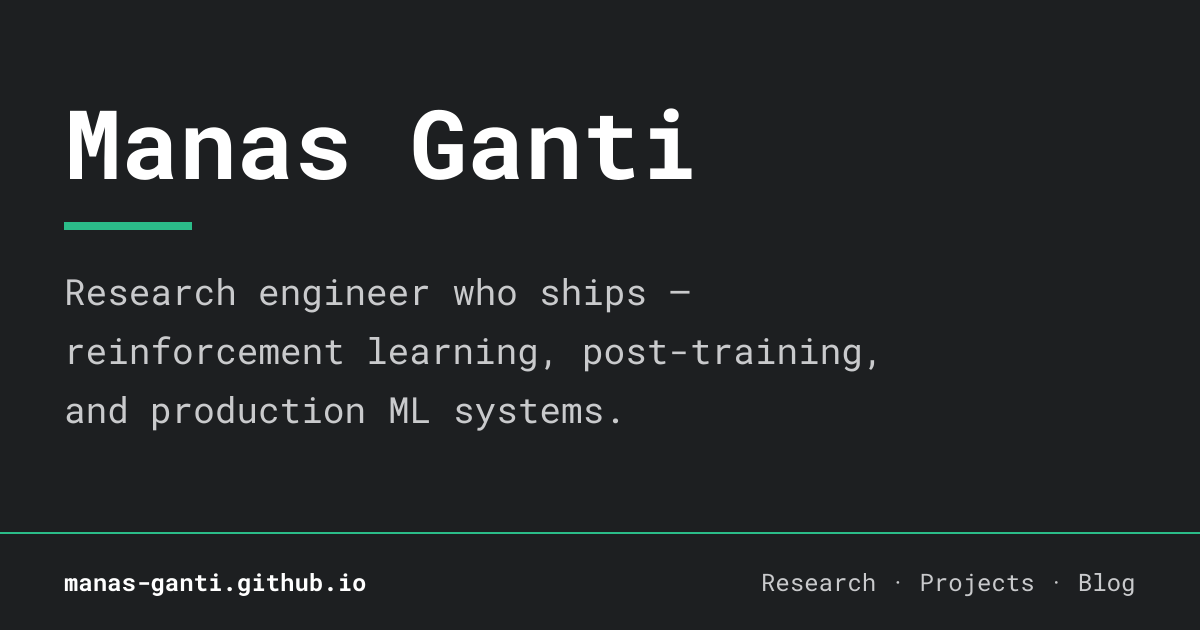
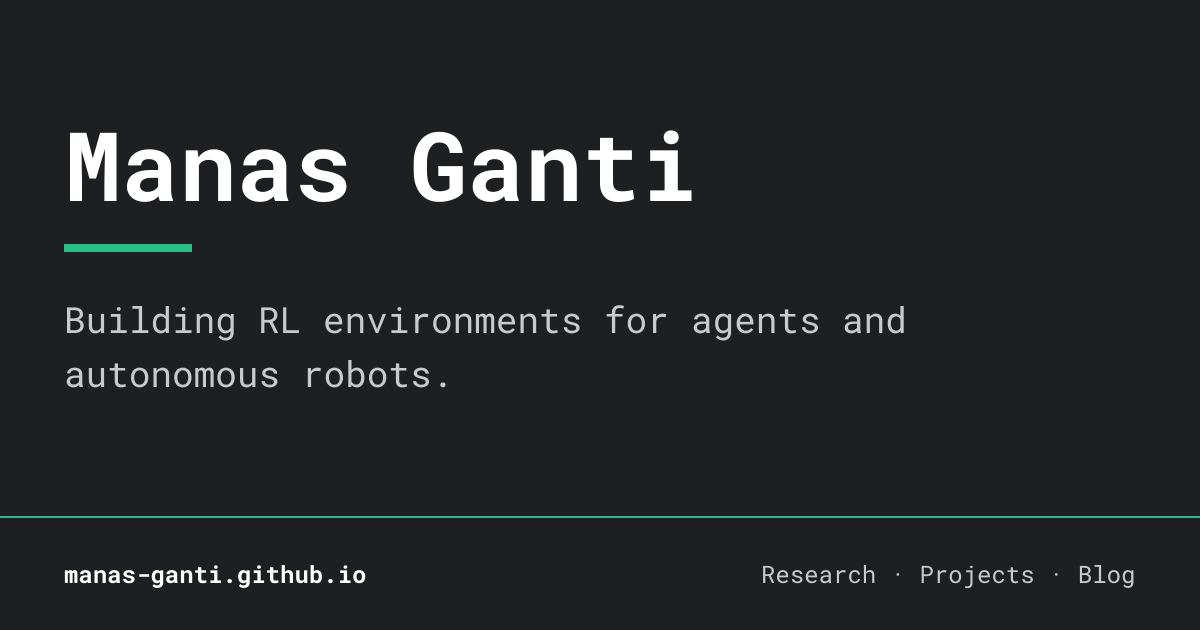
Link preview: new tagline in site description and share card

diff --git a/src/site.config.ts b/src/site.config.ts
@@ -9,7 +9,7 @@ export const siteConfig: SiteConfig = {
 	title: "Manas Ganti",
 	author: "Manas Ganti",
 	description:
-		"Research engineer building RL environments, verifiable rewards, and post-training pipelines for language and vision-language models.",
+		"Building RL environments for agents and autonomous robots.",
 	lang: "en-US",
 	ogLocale: "en_US",
 	// Date.prototype.toLocaleDateString() parameters, found in src/utils/date.ts.
